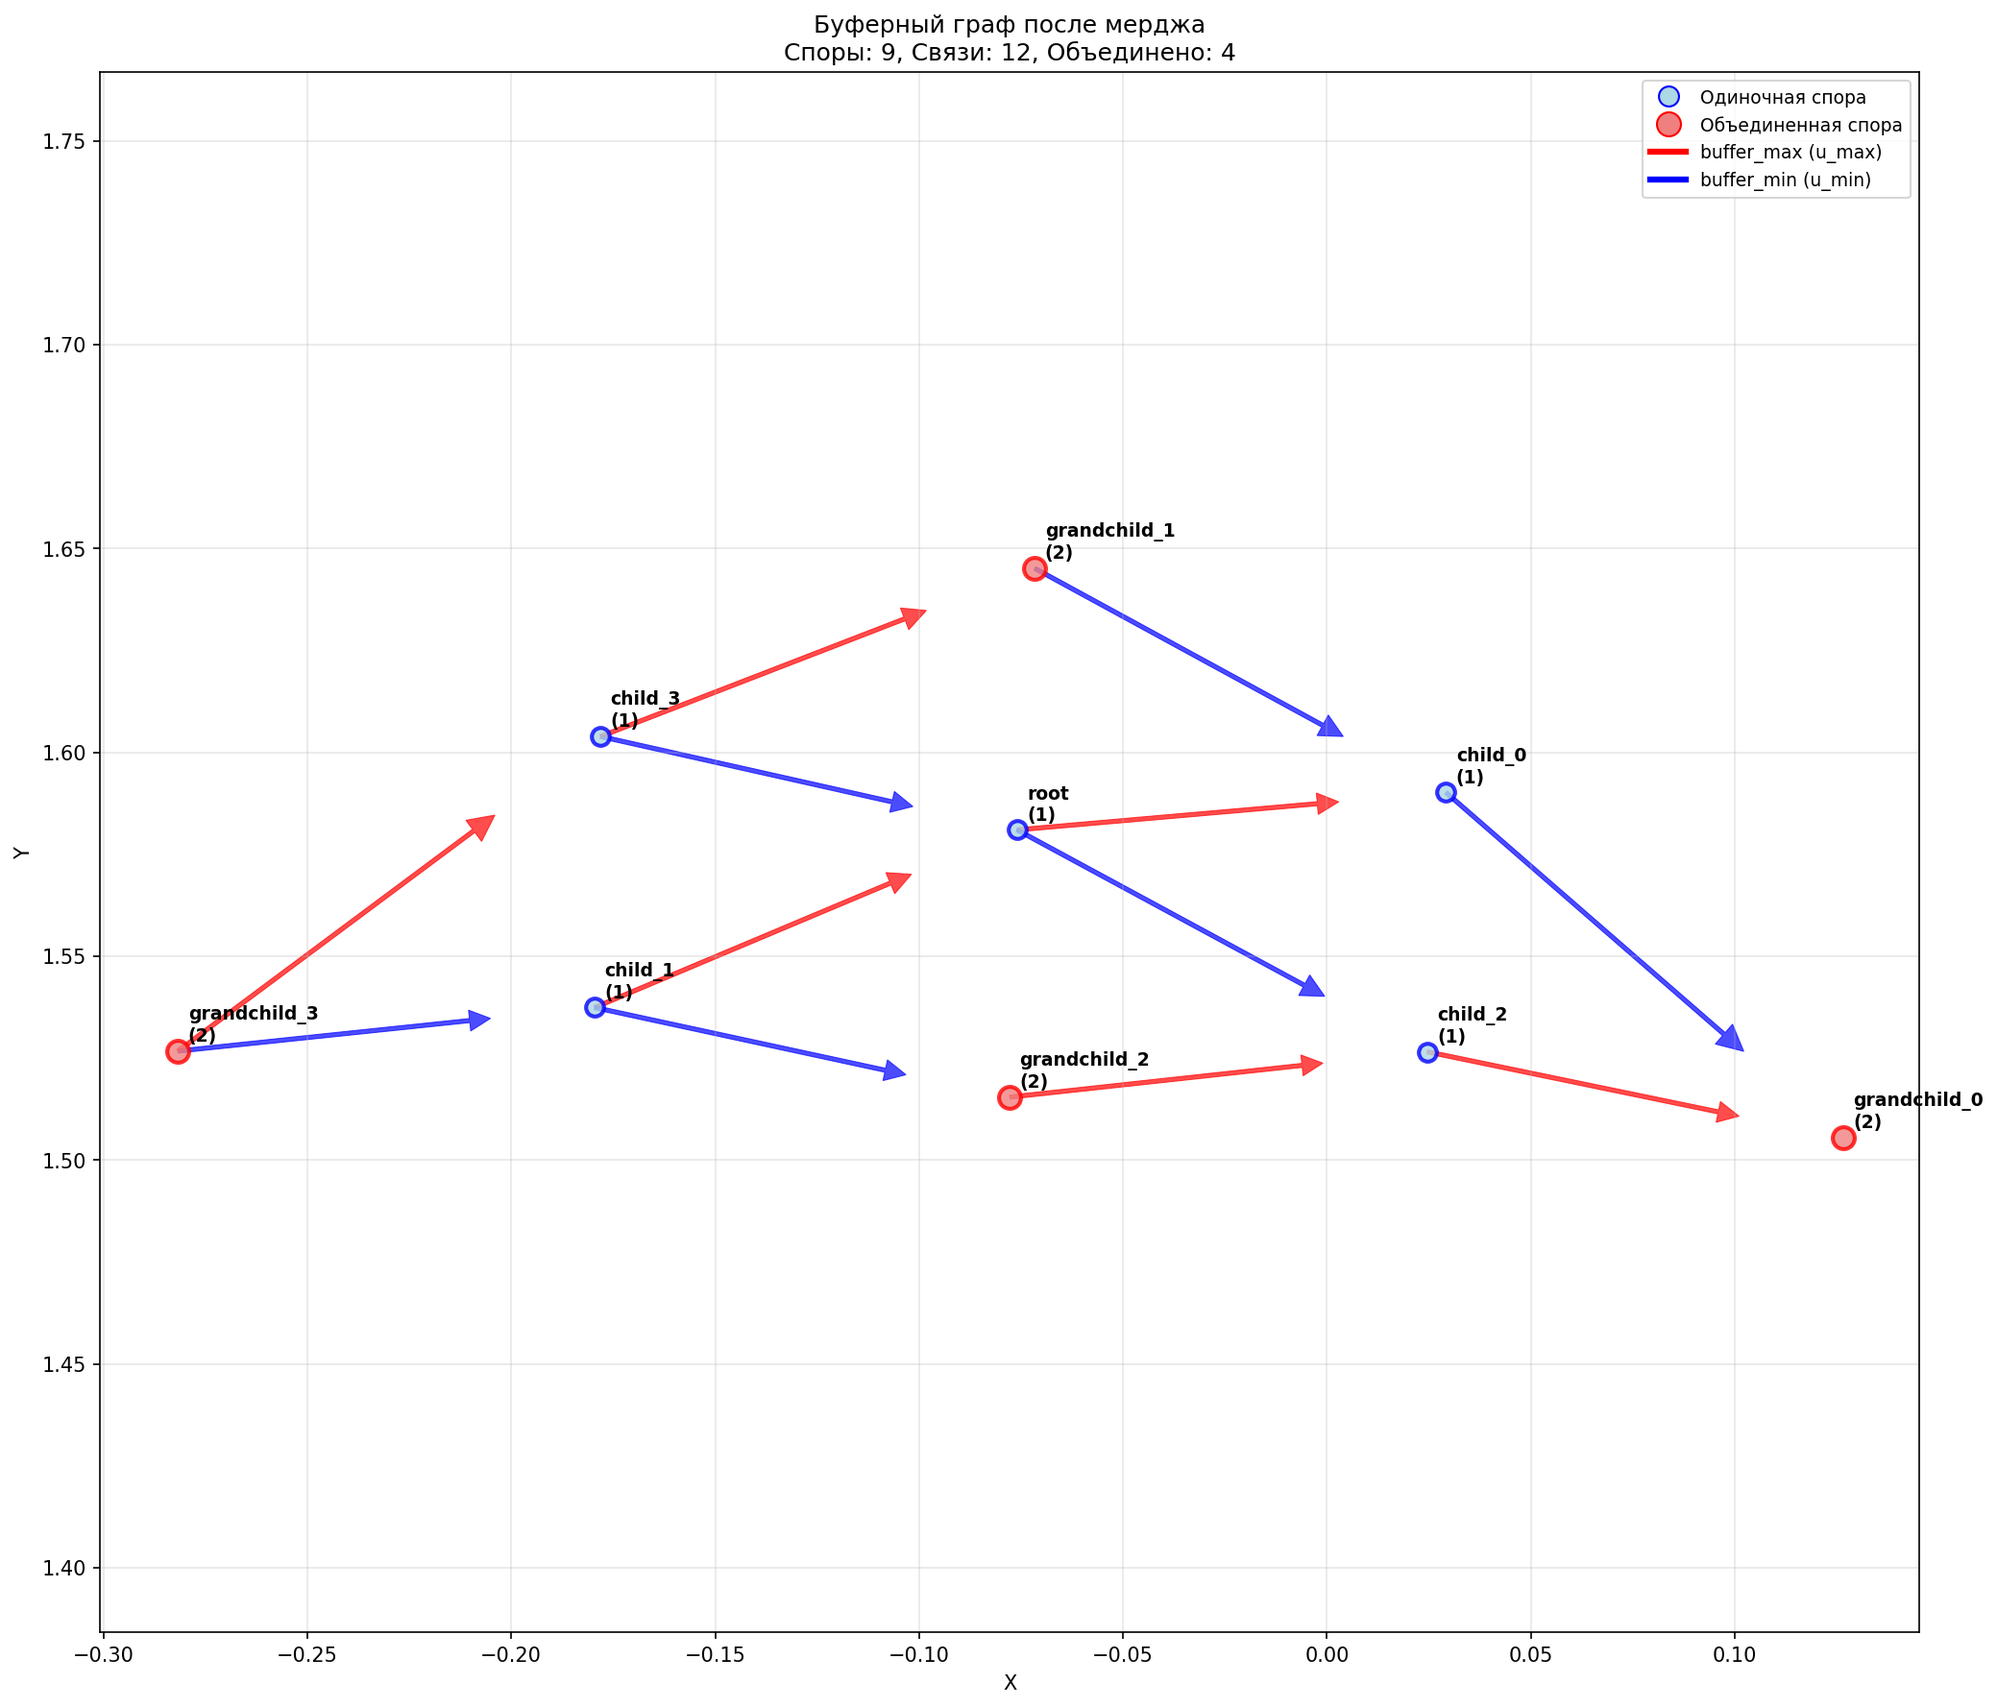
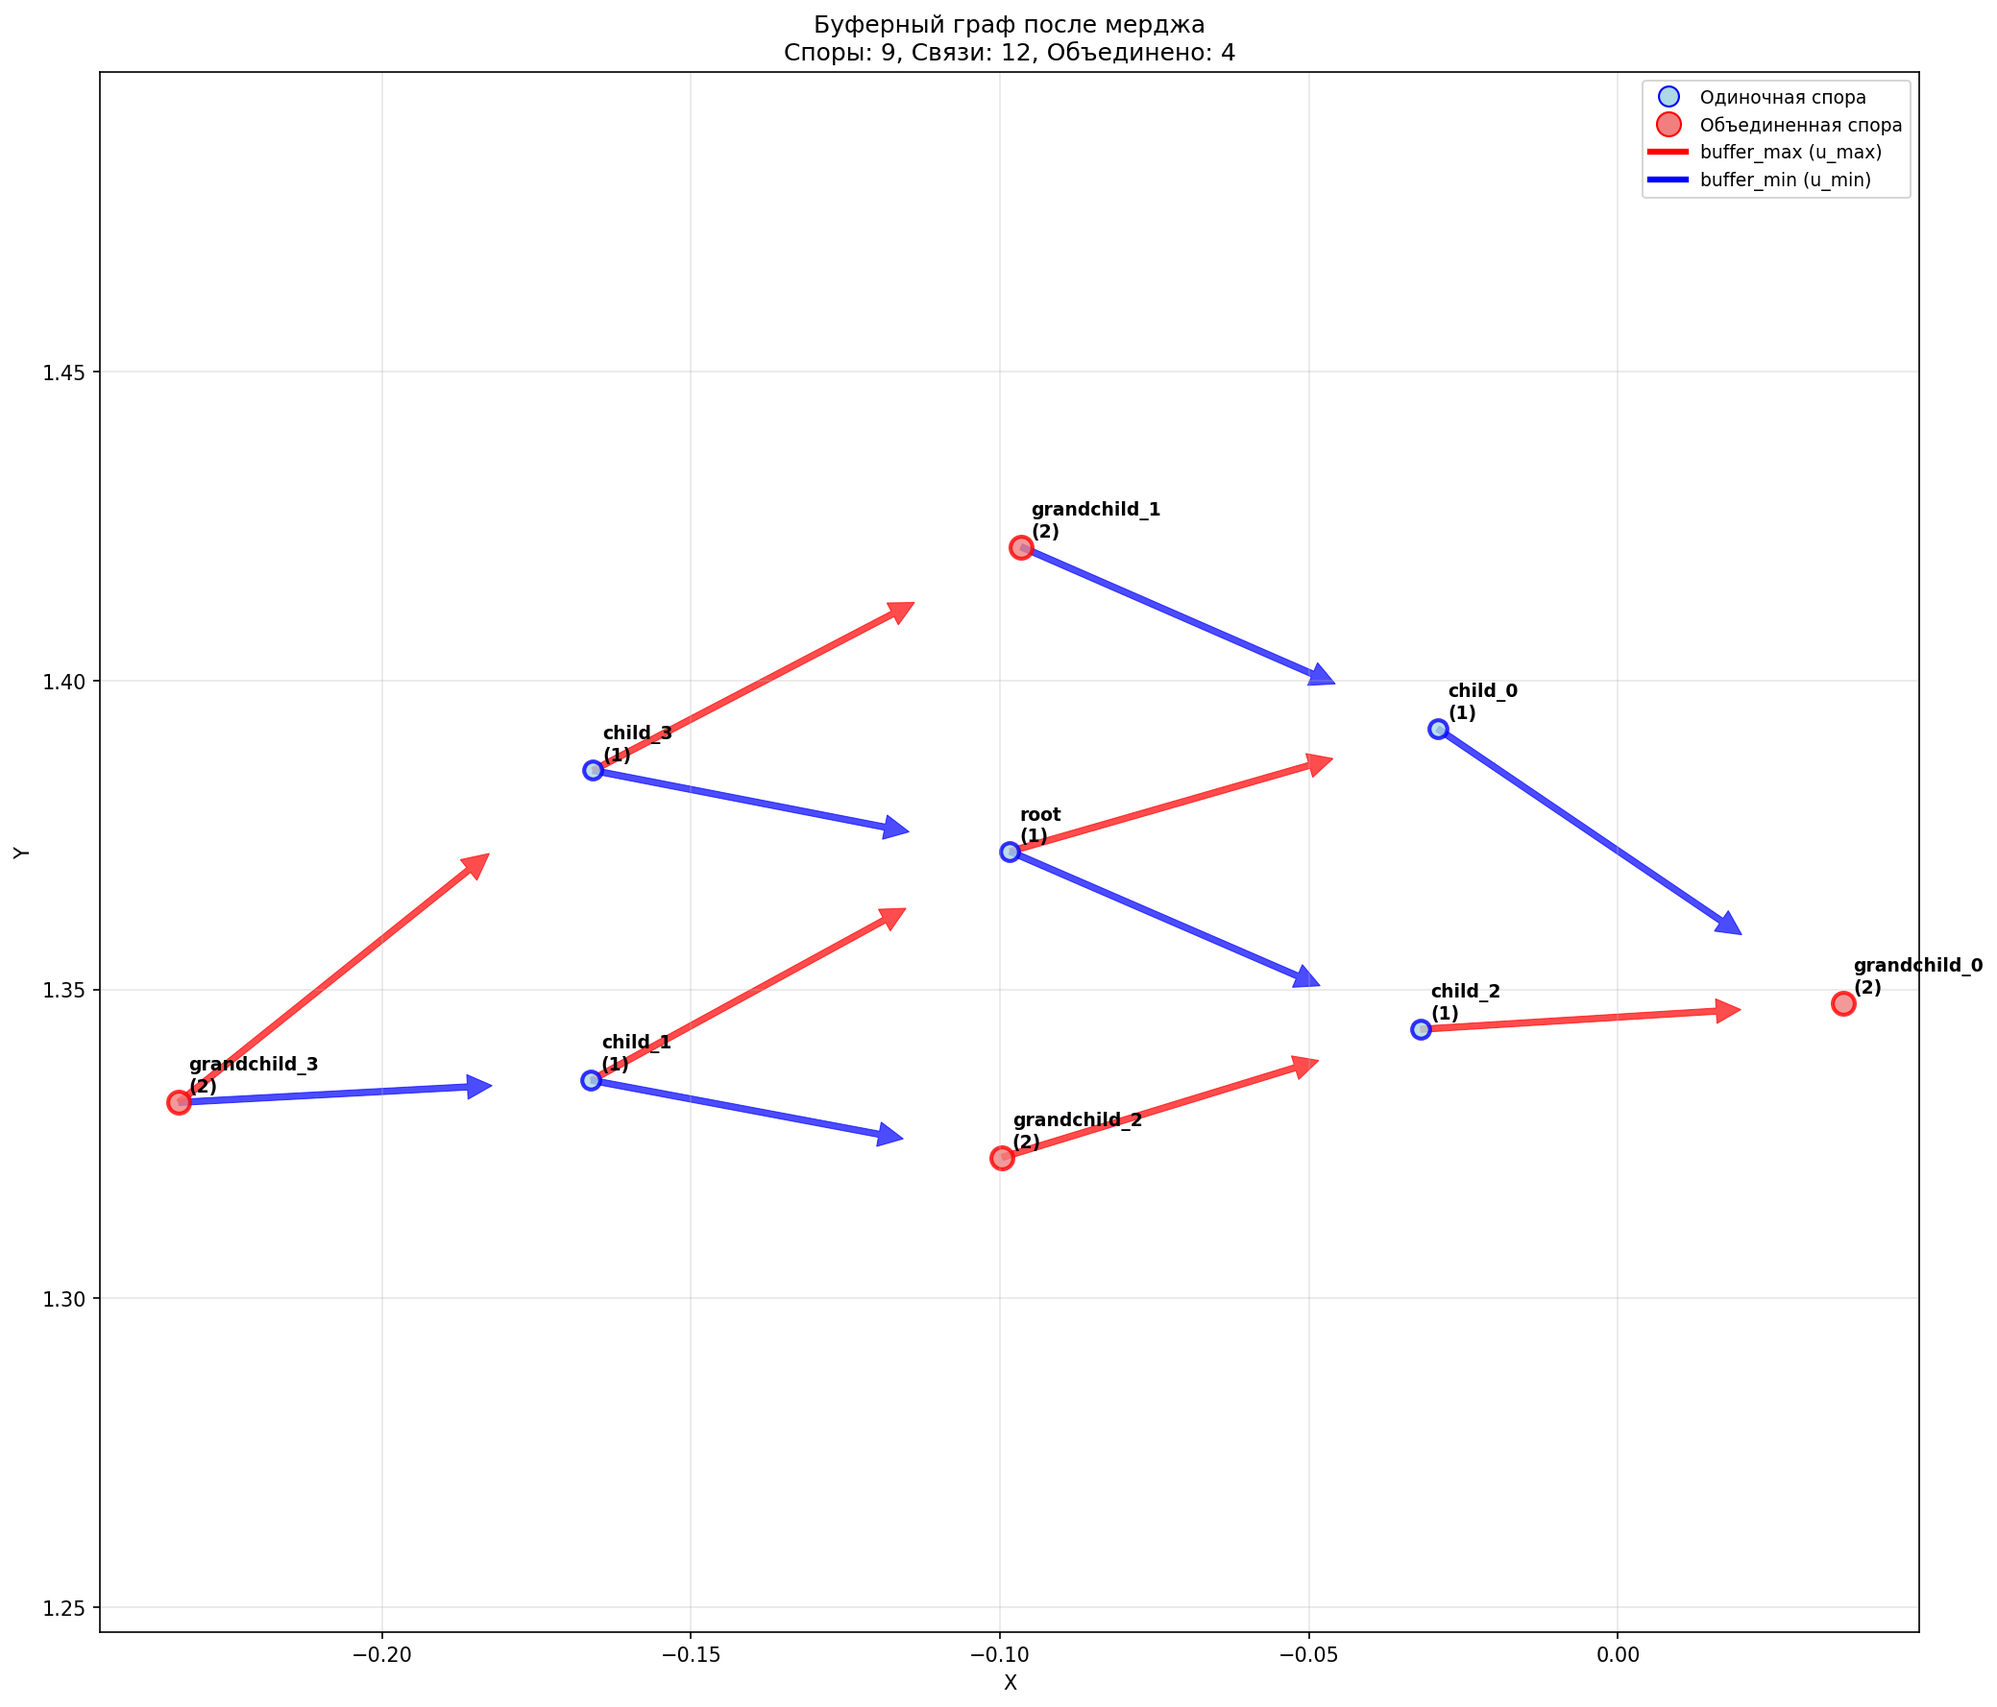
-

diff --git a/spores/v16_picker/src/managers/valence_manager.py b/spores/v16_picker/src/managers/valence_manager.py
@@ -8,7 +8,7 @@ Valence Manager - Менеджер для анализа валентности 
 
 from typing import Dict, Optional, List, Any
 import numpy as np
-from ..logic.valence import ValenceSlot, SporeValence
+from ..logic.valence import SporeValence
 
 
 class ValenceManager:
@@ -124,15 +124,8 @@ class ValenceManager:
             return []
 
     def _get_direct_neighbors(self, spore_id: str) -> List[Dict[str, Any]]:
-        """
-        Получает прямых соседей (детей и родителей).
+        """Получает прямых соседей (детей и родителей)."""
 
-        Args:
-            spore_id: ID споры
-
-        Returns:
-            Список соседей с метаданными
-        """
         neighbors: List[Dict[str, Any]] = []
 
         # Исходящие связи (дети)
@@ -141,13 +134,9 @@ class ValenceManager:
             child_id = self.spore_manager.graph._get_spore_id(child)
             edge_info = self.spore_manager.graph.get_edge_info(spore_id, child_id)
 
-            dt_value = self._extract_dt_from_edge(edge_info)
-            control_value = self._extract_control_from_edge(edge_info)
-
-            # Направление времени определяется знаком dt:
-            # dt > 0 → forward (прямое время)
-            # dt < 0 → backward (обратное время)
-            time_direction = 'forward' if dt_value and dt_value > 0 else 'backward'
+            dt_value = self._convert_to_float(self._extract_dt_from_edge(edge_info))
+            control_value = self._convert_to_float(self._extract_control_from_edge(edge_info))
+            time_direction = self._determine_time_direction(dt_value)
 
             neighbor_info = {
                 'target_spore': child,
@@ -156,22 +145,22 @@ class ValenceManager:
                 'time_direction': time_direction,
                 'dt': dt_value,
                 'control': control_value,
+                'raw_direction': 'outgoing',
             }
             neighbors.append(neighbor_info)
 
-        # Входящие связи (родители)
+        # Входящие связи (родители) — двигаемся против направления ребра
         parents = self.spore_manager.graph.get_parents(spore_id)
         for parent in parents:
             parent_id = self.spore_manager.graph._get_spore_id(parent)
             edge_info = self.spore_manager.graph.get_edge_info(parent_id, spore_id)
 
-            dt_value = self._extract_dt_from_edge(edge_info)
-            control_value = self._extract_control_from_edge(edge_info)
+            raw_dt = self._convert_to_float(self._extract_dt_from_edge(edge_info))
+            raw_control = self._convert_to_float(self._extract_control_from_edge(edge_info))
 
-            # Направление времени определяется знаком dt:
-            # dt > 0 → forward (прямое время)
-            # dt < 0 → backward (обратное время)
-            time_direction = 'forward' if dt_value and dt_value > 0 else 'backward'
+            dt_value = -raw_dt if raw_dt is not None else None
+            control_value = -raw_control if raw_control is not None else None
+            time_direction = self._determine_time_direction(dt_value)
 
             neighbor_info = {
                 'target_spore': parent,
@@ -180,70 +169,65 @@ class ValenceManager:
                 'time_direction': time_direction,
                 'dt': dt_value,
                 'control': control_value,
+                'raw_direction': 'incoming',
             }
             neighbors.append(neighbor_info)
 
         return neighbors
 
     def _get_neighbors_at_distance_2(self, spore_id: str) -> List[Dict[str, Any]]:
-        """
-        Получает соседей на расстоянии 2 (внуки).
+        """Получает соседей на расстоянии 2 (внуки)."""
 
-        Args:
-            spore_id: ID споры
-
-        Returns:
-            Список внуков с метаданными о пути
-        """
         neighbors: List[Dict[str, Any]] = []
 
-        # Получаем прямых соседей
         direct_neighbors = self._get_direct_neighbors(spore_id)
 
-        # Для каждого прямого соседа получаем его соседей
         for direct_neighbor in direct_neighbors:
             intermediate_id = direct_neighbor['target_id']
 
-            # Избегаем циклов
             if intermediate_id == spore_id:
                 continue
 
-            # Получаем соседей промежуточной споры
             intermediate_neighbors = self._get_direct_neighbors(intermediate_id)
 
             for neighbor in intermediate_neighbors:
                 target_id = neighbor['target_id']
 
-                # Избегаем возврата к исходной споре и промежуточной
                 if target_id in {spore_id, intermediate_id}:
                     continue
 
-                # Формируем информацию о маршруте из 2 шагов
+                first_control = direct_neighbor.get('control')
+                second_control = neighbor.get('control')
+
+                first_control_type = self._determine_control_type(first_control)
+                second_control_type = self._determine_control_type(second_control)
+
+                if not first_control_type or not second_control_type:
+                    continue
+
+                if first_control_type == second_control_type:
+                    continue
+
                 path = [spore_id, intermediate_id, target_id]
 
-                # Первый шаг: от spore_id к intermediate_id
-                first_time_dir = direct_neighbor['time_direction']
-                first_control = direct_neighbor['control']
-                first_dt = direct_neighbor['dt']
-
-                # Второй шаг: от intermediate_id к target_id
-                second_time_dir = neighbor['time_direction']
-                second_control = neighbor['control']
-                second_dt = neighbor['dt']
+                first_dt = direct_neighbor.get('dt')
+                second_dt = neighbor.get('dt')
 
                 neighbor_info = {
-                    'target_spore': neighbor['target_spore'],
+                    'target_spore': neighbor.get('target_spore'),
                     'target_id': target_id,
                     'path': path,
                     'intermediate_id': intermediate_id,
-                    'first_time_direction': first_time_dir,
+                    'first_time_direction': direct_neighbor.get('time_direction'),
                     'first_control': first_control,
+                    'first_control_type': first_control_type,
                     'first_dt': first_dt,
-                    'second_time_direction': second_time_dir,
+                    'second_time_direction': neighbor.get('time_direction'),
                     'second_control': second_control,
+                    'second_control_type': second_control_type,
                     'second_dt': second_dt,
-                    # Общий dt - сумма двух шагов
-                    'dt': (first_dt if first_dt is not None else 0) + (second_dt if second_dt is not None else 0),
+                    'dt': (first_dt if first_dt is not None else 0)
+                          + (second_dt if second_dt is not None else 0),
                 }
                 neighbors.append(neighbor_info)
 
@@ -299,52 +283,77 @@ class ValenceManager:
 
         return None
 
+    def _convert_to_float(self, value: Any) -> Optional[float]:
+        """Преобразует значение (включая numpy) в float."""
+        if value is None:
+            return None
+
+        if isinstance(value, np.ndarray):
+            if value.size == 0:
+                return None
+            value = value.flatten()[0]
+
+        if isinstance(value, (np.floating, np.integer)):
+            return float(value)
+
+        if isinstance(value, (float, int)):
+            return float(value)
+
+        try:
+            return float(value)
+        except (TypeError, ValueError):
+            return None
+
+    def _determine_time_direction(self, dt_value: Optional[float]) -> str:
+        """Определяет направление времени по знаку dt."""
+        if dt_value is None:
+            return 'forward'
+        return 'forward' if dt_value >= 0 else 'backward'
+
+    def _determine_control_type(self, control_value: Optional[float]) -> Optional[str]:
+        """Определяет тип управления по знаку control."""
+        if control_value is None:
+            return None
+
+        if control_value > 0:
+            return 'max'
+        if control_value < 0:
+            return 'min'
+
+        return None
+
     def _occupy_slot_from_neighbor(self, valence: SporeValence, neighbor: Dict[str, Any], distance: int) -> None:
-        """
-        Заполняет слот валентности на основе информации о соседе.
+        """Заполняет слот валентности на основе информации о соседе."""
 
-        Args:
-            valence: Валентность споры для заполнения
-            neighbor: Информация о соседе
-            distance: Расстояние до соседа (1 или 2)
-        """
         if distance == 1:
-            # Для детей - просто time_direction и control
             time_dir = neighbor.get('time_direction')
-            control = neighbor.get('control')
+            control_type = self._determine_control_type(neighbor.get('control')) or 'max'
 
-            # Определяем тип управления (max/min)
-            if control is not None:
-                control_type = 'max' if control > 0 else 'min'
-            else:
-                control_type = 'max'  # Дефолт
-
-            # Ищем соответствующий слот
             slot = valence.find_slot_by_parameters(
                 slot_type='child',
                 time_direction=time_dir,
                 control_type=control_type
             )
 
-            if slot:
+            if slot and not slot.occupied:
                 slot.occupied = True
                 slot.neighbor_id = neighbor.get('target_id')
                 slot.dt_value = neighbor.get('dt')
                 slot.is_fixed = True  # Существующие связи зафиксированы
 
         elif distance == 2:
-            # Для внуков - два шага
             first_time_dir = neighbor.get('first_time_direction')
-            first_control = neighbor.get('first_control')
+            first_control_type = neighbor.get('first_control_type')
             second_time_dir = neighbor.get('second_time_direction')
+            second_control_type = neighbor.get('second_control_type')
 
-            # Определяем тип управления первого шага
-            if first_control is not None:
-                first_control_type = 'max' if first_control > 0 else 'min'
-            else:
-                first_control_type = 'max'  # Дефолт
+            if not first_control_type or not second_control_type:
+                return
 
-            # Ищем соответствующий слот
+            expected_second_type = 'min' if first_control_type == 'max' else 'max'
+            if second_control_type != expected_second_type:
+                return
+
             slot = valence.find_slot_by_parameters(
                 slot_type='grandchild',
                 time_direction=first_time_dir,
@@ -352,7 +361,7 @@ class ValenceManager:
                 second_time_direction=second_time_dir
             )
 
-            if slot:
+            if slot and not slot.occupied:
                 slot.occupied = True
                 slot.neighbor_id = neighbor.get('target_id')
                 slot.dt_value = neighbor.get('dt')
